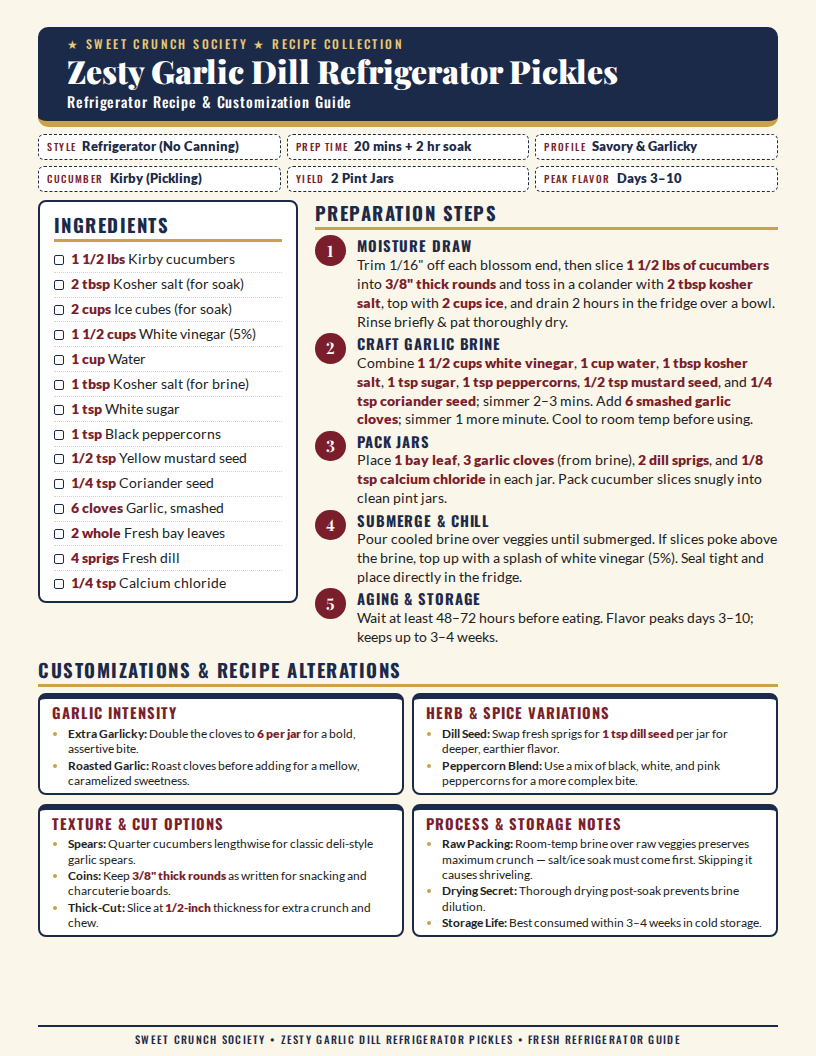
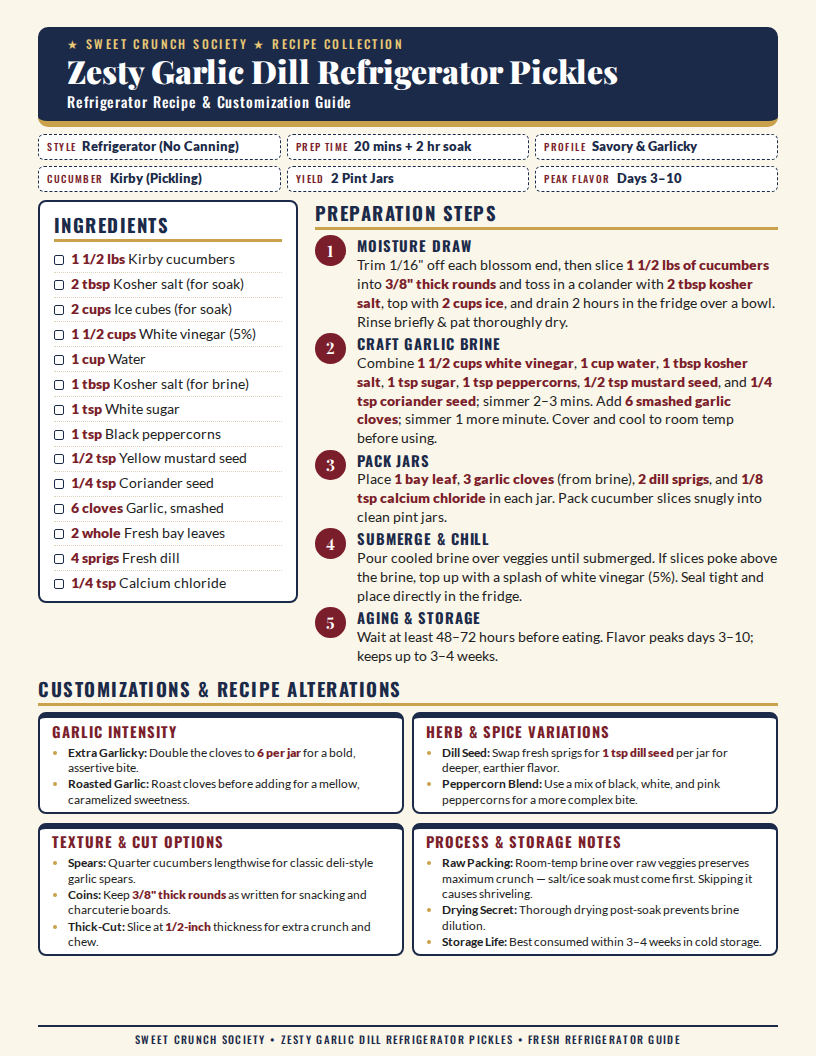
docs: say "Cover and cool" in brine step
Brine step now ends "Cover and cool to room temp before using." on both
recipe cards. Regenerated both preview PNGs.

Changed region(s): [[0.0306, 0.375, 0.9498, 0.9062]]

diff --git a/index.html b/index.html
@@ -169,7 +169,7 @@
         <h2 class="sec" id="prep">Preparation Steps</h2>
         <ol class="steps">
           <li><b>Moisture Draw</b>Trim 1/16" off each blossom end, then slice <strong>1 1/2 lbs of cucumbers</strong> into <strong>3/8" thick rounds</strong> and toss in a colander with <strong>2 tbsp kosher salt</strong>, top with <strong>2 cups ice</strong>, and drain 2 hours in the fridge over a bowl. Rinse briefly &amp; pat thoroughly dry.</li>
-          <li><b>Craft Sweet Brine</b>Simmer <strong>1 1/2 cups white vinegar</strong>, <strong>1 1/4 cups white sugar</strong>, <strong>1/4 cup brown sugar</strong>, <strong>1/2 tsp kosher salt</strong>, <strong>1 tbsp mustard seed</strong>, <strong>8–10 black peppercorns</strong>, <strong>3/4 tsp celery seed</strong>, <strong>1/2 tsp turmeric</strong>, and <strong>1/8 tsp ground cloves</strong> 2–3 mins until sugar dissolves. Cool to room temp before using.</li>
+          <li><b>Craft Sweet Brine</b>Simmer <strong>1 1/2 cups white vinegar</strong>, <strong>1 1/4 cups white sugar</strong>, <strong>1/4 cup brown sugar</strong>, <strong>1/2 tsp kosher salt</strong>, <strong>1 tbsp mustard seed</strong>, <strong>8–10 black peppercorns</strong>, <strong>3/4 tsp celery seed</strong>, <strong>1/2 tsp turmeric</strong>, and <strong>1/8 tsp ground cloves</strong> 2–3 mins until sugar dissolves. Cover and cool to room temp before using.</li>
           <li><b>Pack Jars</b>Place <strong>1 bay leaf</strong>, <strong>1 pearl onion</strong> (peeled &amp; halved), and <strong>1/8 tsp calcium chloride</strong> in each jar. Pack raw cucumber slices snugly into clean pint jars.</li>
           <li><b>Submerge &amp; Chill</b>Pour cooled brine over veggies until submerged. If slices poke above the brine, top up with a splash of white vinegar (5%). Seal tight and place directly in the fridge.</li>
           <li><b>Aging &amp; Storage</b>Chill at least 24–48 hours before eating. Flavors peak <span style="white-space:nowrap">days 5–14</span>; keeps up to 1 month.</li>

diff --git a/index-zesty.html b/index-zesty.html
@@ -163,7 +163,7 @@
         <h2 class="sec" id="prep">Preparation Steps</h2>
         <ol class="steps">
           <li><b>Moisture Draw</b>Trim 1/16" off each blossom end, then slice <strong>1 1/2 lbs of cucumbers</strong> into <strong>3/8" thick rounds</strong> and toss in a colander with <strong>2 tbsp kosher salt</strong>, top with <strong>2 cups ice</strong>, and drain 2 hours in the fridge over a bowl. Rinse briefly &amp; pat thoroughly dry.</li>
-          <li><b>Craft Garlic Brine</b>Combine <strong>1 1/2 cups white vinegar</strong>, <strong>1 cup water</strong>, <strong>1 tbsp kosher salt</strong>, <strong>1 tsp sugar</strong>, <strong>1 tsp peppercorns</strong>, <strong>1/2 tsp mustard seed</strong>, and <strong>1/4 tsp coriander seed</strong>; simmer 2–3 mins. Add <strong>6 smashed garlic cloves</strong>; simmer 1 more minute. Cool to room temp before using.</li>
+          <li><b>Craft Garlic Brine</b>Combine <strong>1 1/2 cups white vinegar</strong>, <strong>1 cup water</strong>, <strong>1 tbsp kosher salt</strong>, <strong>1 tsp sugar</strong>, <strong>1 tsp peppercorns</strong>, <strong>1/2 tsp mustard seed</strong>, and <strong>1/4 tsp coriander seed</strong>; simmer 2–3 mins. Add <strong>6 smashed garlic cloves</strong>; simmer 1 more minute. Cover and cool to room temp before using.</li>
           <li><b>Pack Jars</b>Place <strong>1 bay leaf</strong>, <strong>3 garlic cloves</strong> (from brine), <strong>2 dill sprigs</strong>, and <strong>1/8 tsp calcium chloride</strong> in each jar. Pack cucumber slices snugly into clean pint jars.</li>
           <li><b>Submerge &amp; Chill</b>Pour cooled brine over veggies until submerged. If slices poke above the brine, top up with a splash of white vinegar (5%). Seal tight and place directly in the fridge.</li>
           <li><b>Aging &amp; Storage</b>Wait at least 48–72 hours before eating. Flavor peaks <span style="white-space:nowrap">days 3–10</span>; keeps up to 3–4 weeks.</li>
